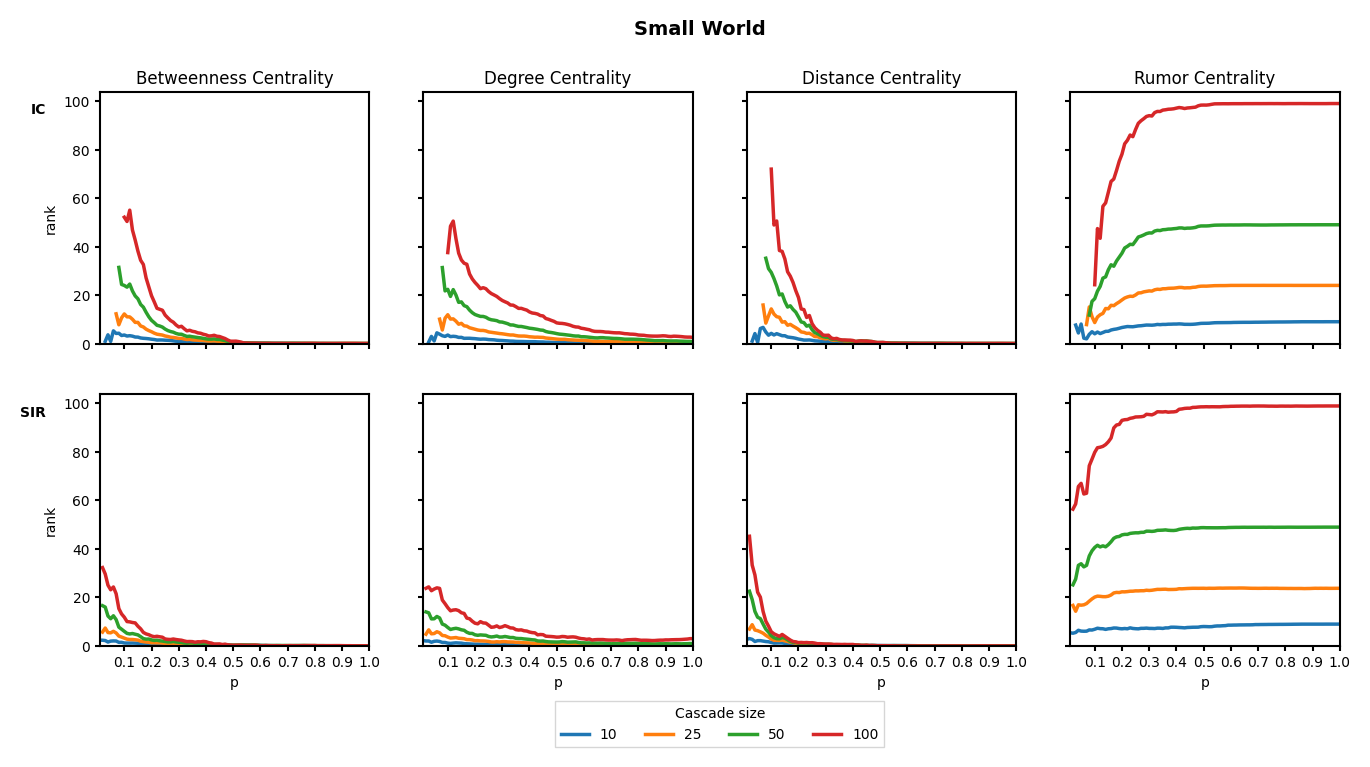
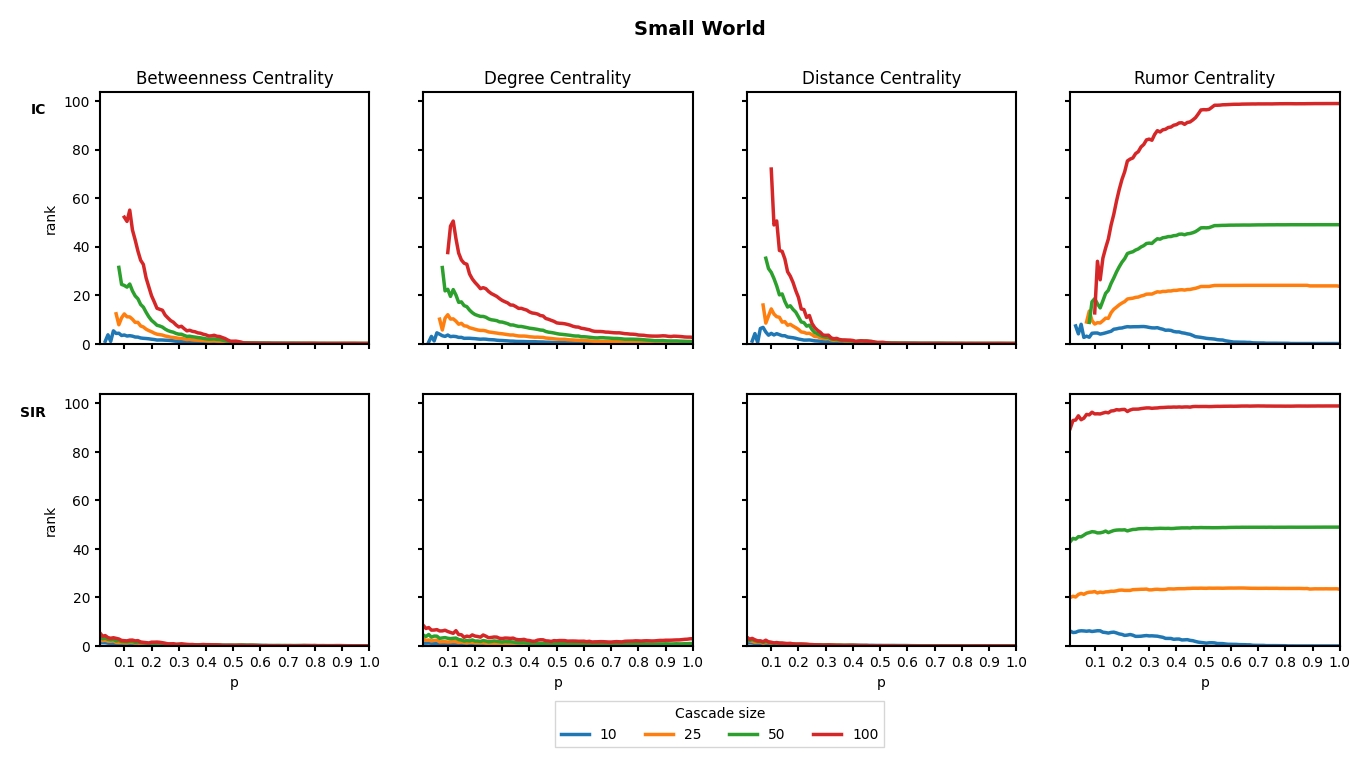
fix

diff --git a/src/patient_zero/experiments/centrality.py b/src/patient_zero/experiments/centrality.py
@@ -31,24 +31,6 @@ def compute_subtree_sizes(tree: nx.DiGraph, node: int, parent: int | None, subtr
     log_prod[node] += math.log(subtree[node]) # Include current nodes subtree
 
 
-def propagate_scores(tree: nx.DiGraph, node: int, parent: int | None, subtree: dict, scores: dict[int, float], n: int):
-    """DFS to propagate rumor centrality scores on a BFS tree.
-
-    Args:
-        tree (nx.DiGraph): The BFS tree of the cascade graph.
-        node (int): The current node being visited (parent in the first call).
-        parent (int | None): The parent of the current node in the DFS. None when node is root.
-        subtree (dict): Dictionary mapping each node to the size of its subtree.
-        scores (dict[int, float]): Dictionary storing the log rumor centrality scores for each node.
-        n (int): Total number of nodes in the tree.
-    """
-    for nbr in tree.neighbors(node):
-        if nbr == parent:
-            continue
-        scores[nbr] = scores[node] + math.log(n - subtree[nbr]) - math.log(subtree[nbr])
-        propagate_scores(tree, nbr, node, subtree, scores, n)
-
-
 def rumor_centrality(cascade: nx.Graph) -> dict[int, float]:
     """Calculates the rumor centrality for all nodes in a graph.
     Note: For general graphs with cycles, this function computes rumor centrality
@@ -63,8 +45,6 @@ def rumor_centrality(cascade: nx.Graph) -> dict[int, float]:
     """
     all_scores = {}
     n = cascade.number_of_nodes()
-
-    is_tree_graph = nx.is_tree(cascade)
     for root in cascade.nodes: # Loops through every node in the cascade and calculates the rumor score for that node.
         # Create BFS tree rooted at the candidate node
         bfs_tree = nx.bfs_tree(cascade, root)
